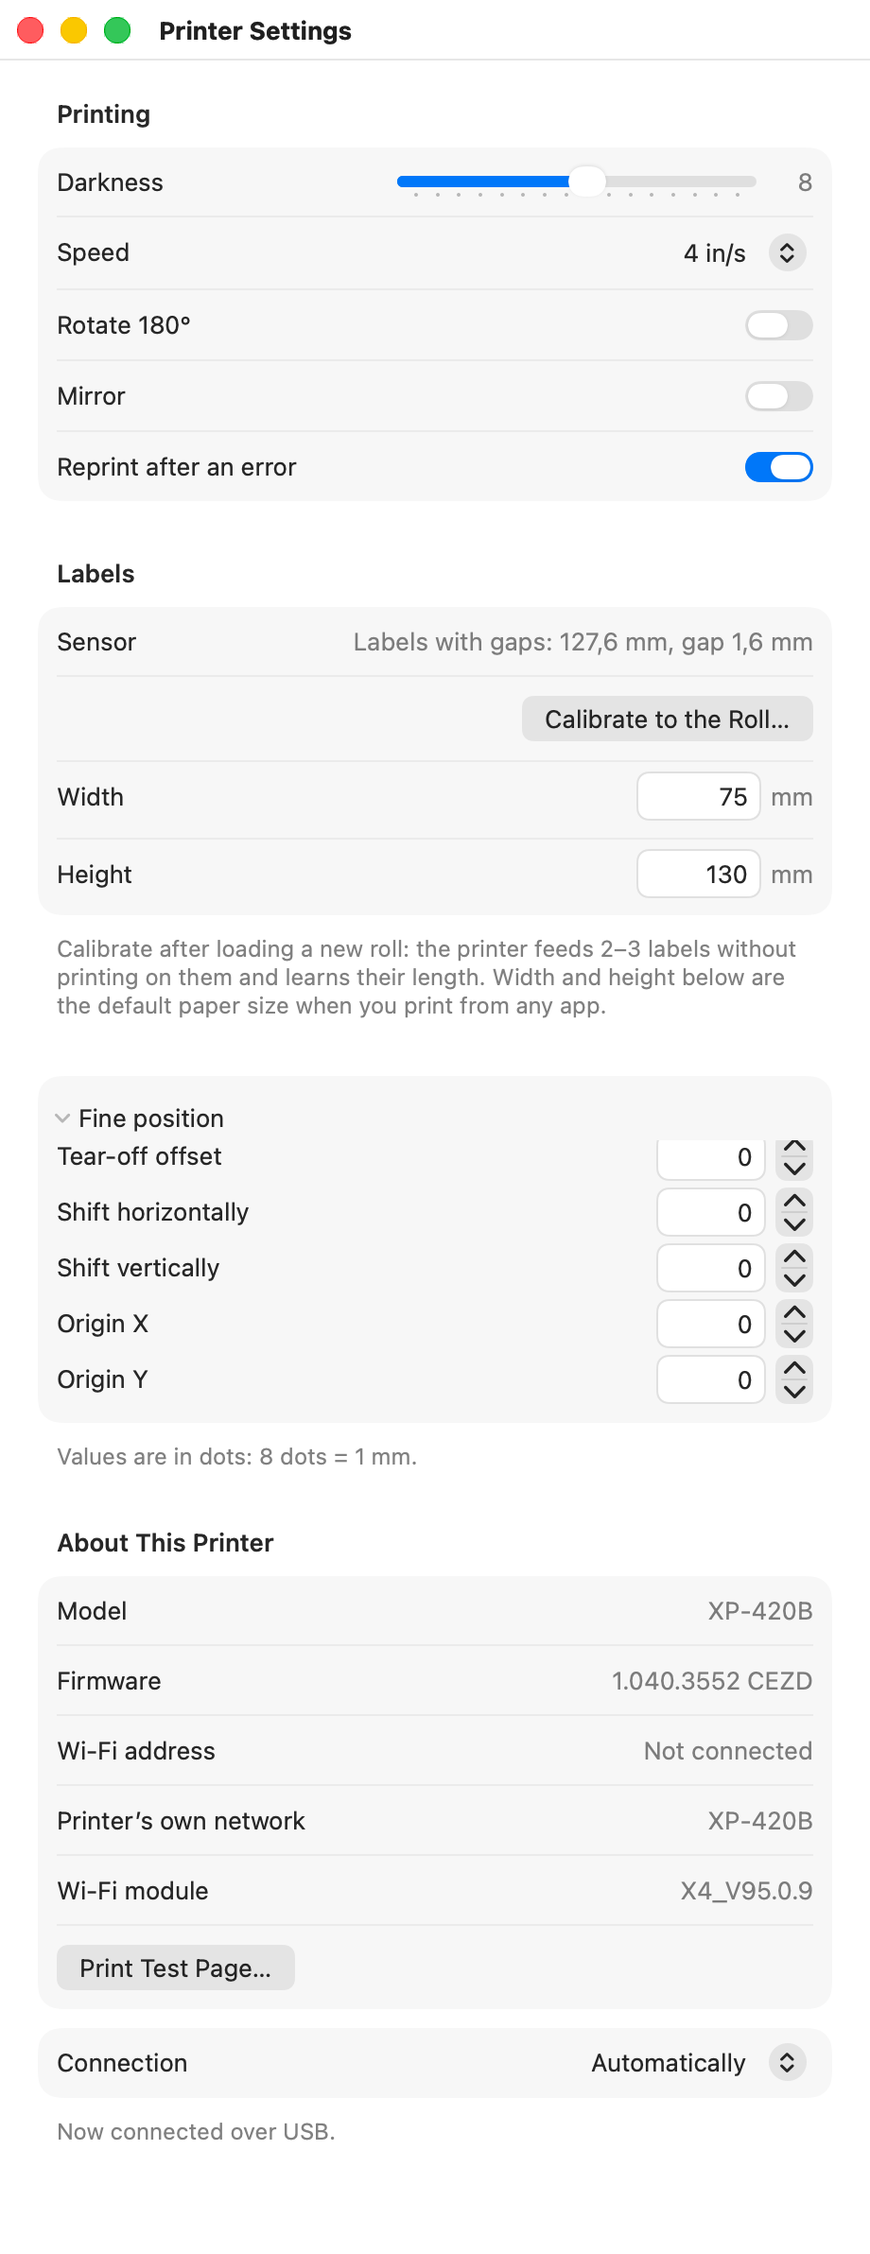
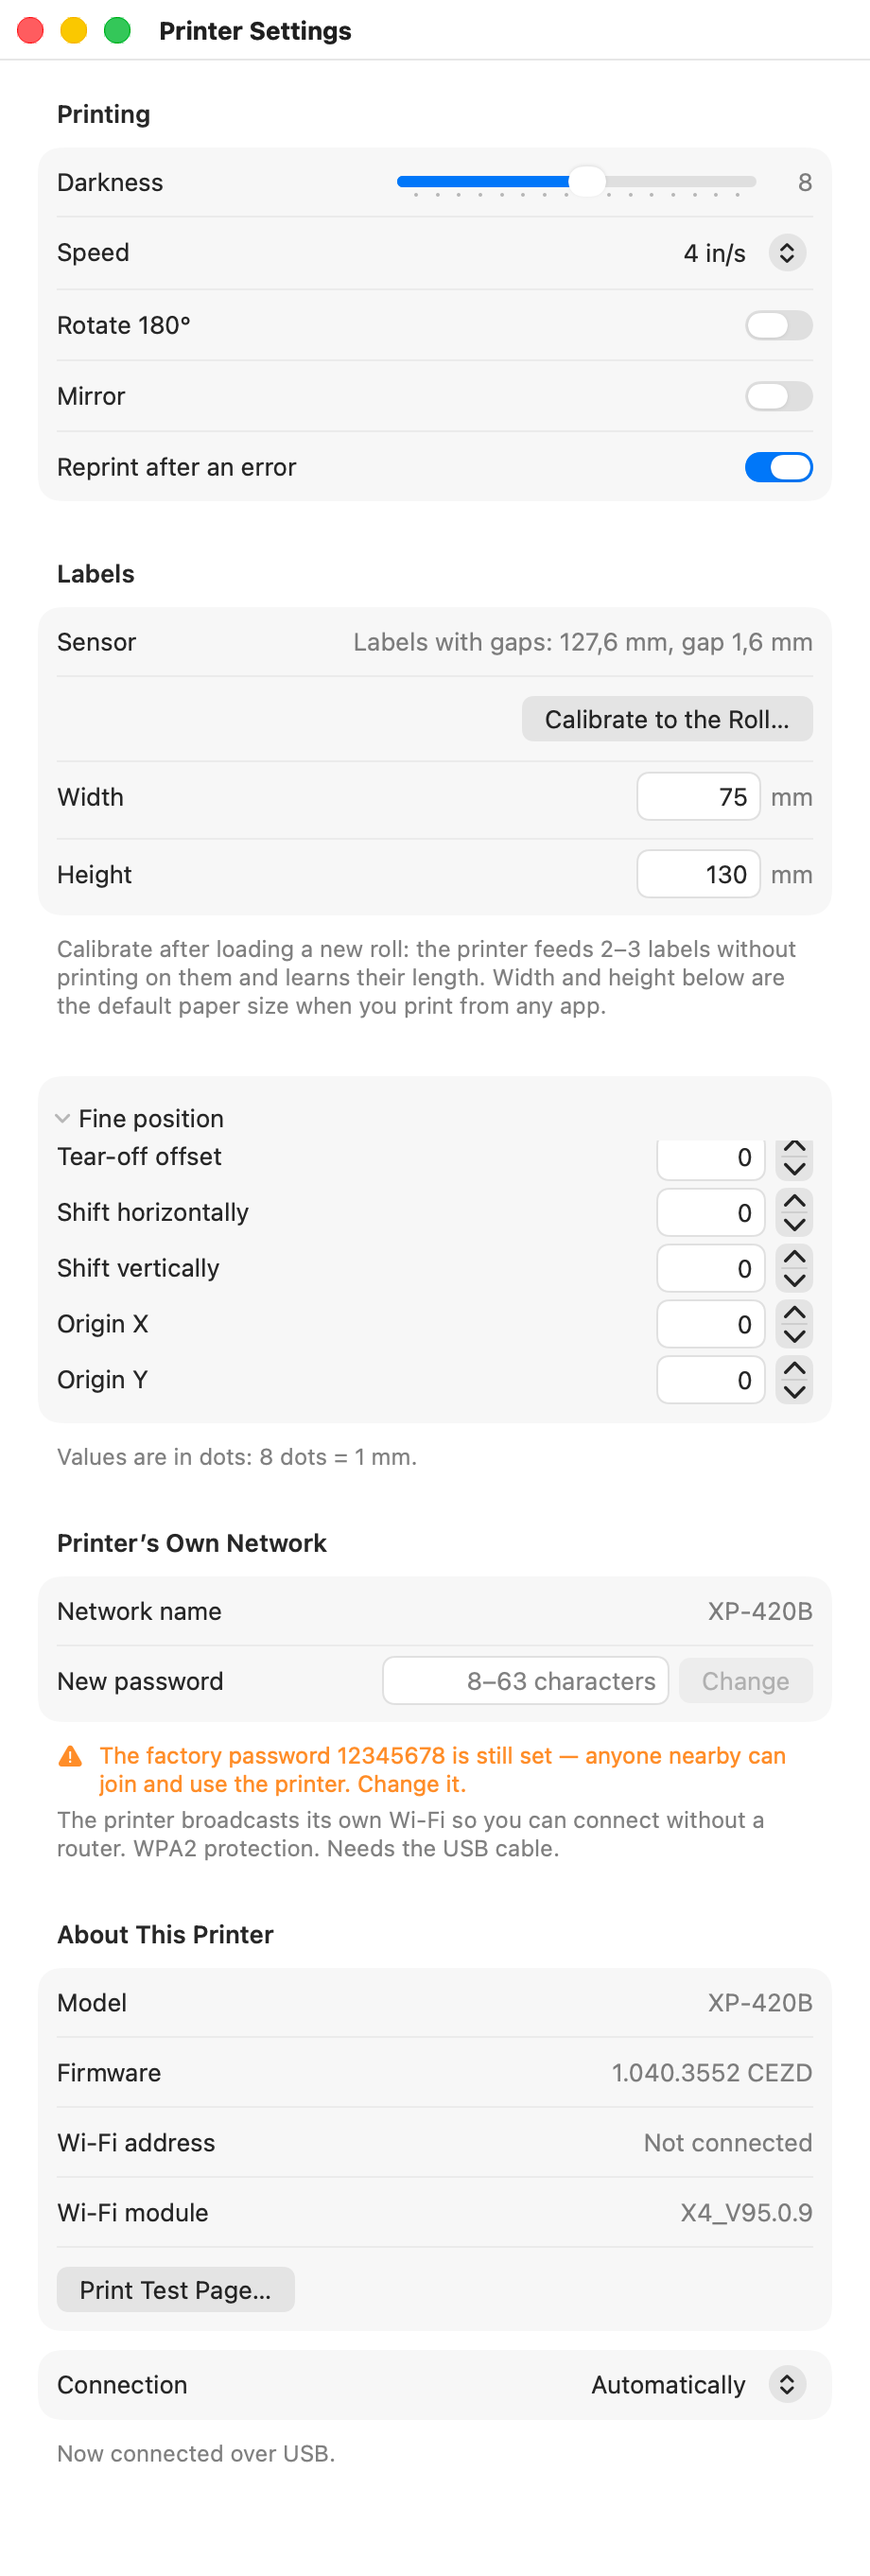
Password of the printer's own network (WPA2, USB), with a factory-password warning

diff --git a/Sources/XprinterSetup/SettingsView.swift b/Sources/XprinterSetup/SettingsView.swift
@@ -7,6 +7,9 @@ struct SettingsView: View {
     @State private var density = 8.0
     @State private var confirmTestPage = false
     @State private var confirmCalibration = false
+    @State private var newAPPassword = ""
+    @State private var changingAP = false
+    @State private var apChanged = false
     @State private var showPosition = Demo.isOn
 
     var body: some View {
@@ -77,12 +80,40 @@ struct SettingsView: View {
                     Text("Values are in dots: 8 dots = 1 mm.", bundle: .module).font(.callout).foregroundStyle(.secondary)
                 }
 
+                if c.hasWiFi, let name = c.accessPointName {
+                    Section {
+                        info("Network name", name)
+                        LabeledContent {
+                            HStack(spacing: 6) {
+                                SecureField(text: $newAPPassword, prompt: Text("8–63 characters", bundle: .module)) { EmptyView() }
+                                    .labelsHidden().textFieldStyle(.roundedBorder).frame(width: 150)
+                                if changingAP { ProgressView().controlSize(.small) }
+                                Button { changeAPPassword() } label: { Text("Change", bundle: .module) }
+                                    .disabled(!printer.usbPlugged || changingAP || !XprinterCommand.isValidAccessPointPassword(newAPPassword))
+                            }
+                        } label: { Text("New password", bundle: .module) }
+                    } header: { Text("Printer’s Own Network", bundle: .module) }
+                      footer: {
+                        VStack(alignment: .leading, spacing: 4) {
+                            if c.accessPointPassword == XprinterCommand.defaultAccessPointPassword {
+                                Label { Text("The factory password 12345678 is still set — anyone nearby can join and use the printer. Change it.", bundle: .module) }
+                                    icon: { Image(systemName: "exclamationmark.triangle.fill") }
+                                    .foregroundStyle(.orange)
+                            } else if apChanged {
+                                Label { Text("Password changed.", bundle: .module) } icon: { Image(systemName: "checkmark.circle.fill") }
+                                    .foregroundStyle(.green)
+                            }
+                            Text("The printer broadcasts its own Wi-Fi so you can connect without a router. WPA2 protection. Needs the USB cable.", bundle: .module)
+                        }
+                        .font(.callout).foregroundStyle(.secondary)
+                    }
+                }
+
                 Section {
                     info("Model", c.model)
                     info("Firmware", c.firmware)
                     if c.hasWiFi {
                         info("Wi-Fi address", c.wifiIP ?? loc("Not connected"))
-                        info("Printer’s own network", c.accessPointName)
                         info("Wi-Fi module", c.wifiModule)
                     }
                     Button { confirmTestPage = true } label: { Text("Print Test Page…", bundle: .module) }
@@ -128,6 +159,15 @@ struct SettingsView: View {
             }
             .padding(40)
             .frame(maxWidth: .infinity, maxHeight: .infinity)
+        }
+    }
+
+    private func changeAPPassword() {
+        changingAP = true; apChanged = false
+        Task {
+            apChanged = await printer.setAccessPointPassword(newAPPassword)
+            if apChanged { newAPPassword = "" }
+            changingAP = false
         }
     }
 

diff --git a/Sources/XprinterSetup/PrinterModel.swift b/Sources/XprinterSetup/PrinterModel.swift
@@ -305,6 +305,22 @@ final class PrinterModel: ObservableObject {
         }
     }
 
+    /// New password for the printer's own network (USB only). Returns true when the printer stored it.
+    func setAccessPointPassword(_ password: String) async -> Bool {
+        guard !Demo.isOn, usbPlugged, let name = config?.accessPointName,
+              XprinterCommand.isValidAccessPointPassword(password) else { return false }
+        settingsError = nil
+        do {
+            try await Self.background { try Xprinter.send(XprinterCommand.setAccessPoint(name: name, password: password), via: .usb) }
+        } catch {
+            settingsError = error.localizedDescription
+            return false
+        }
+        try? await Task.sleep(nanoseconds: 10_000_000_000)  // the Wi-Fi module restarts
+        await reload()
+        return config?.accessPointPassword == password
+    }
+
     /// Soft restart over USB ("Reset Printer"). Settings are kept; Wi-Fi comes back about 10 s later.
     func restartPrinter() { restart(XprinterCommand.restartPrinter, wait: 15) }
     /// Restarts only the Wi-Fi module over USB.

diff --git a/Tests/XprinterKitTests/XprinterKitTests.swift b/Tests/XprinterKitTests/XprinterKitTests.swift
@@ -20,6 +20,16 @@ final class XprinterKitTests: XCTestCase {
         XCTAssertFalse(Array(XprinterCommand.restartPrinter).suffix(3) == [27, 33, 67])
     }
 
+    func testAccessPoint() {
+        XCTAssertEqual(String(decoding: XprinterCommand.setAccessPoint(name: "XP-420B", password: "secret123"), as: UTF8.self),
+                       "WIFI SETAP \"XP-420B\",3,\"secret123\"\r\nWIFI RESET\r\n")  // 3 = WPA2, checked on the printer
+        XCTAssertTrue(XprinterCommand.isValidAccessPointPassword("12345678"))
+        XCTAssertFalse(XprinterCommand.isValidAccessPointPassword("short"))
+        XCTAssertFalse(XprinterCommand.isValidAccessPointPassword("with\"quote1"))
+        XCTAssertFalse(XprinterCommand.isValidAccessPointPassword("пароль-кириллицей"))
+        XCTAssertEqual(PrinterConfig(report: "Wifi Pin: 12345678").accessPointPassword, "12345678")
+    }
+
     func testValidation() {
         XCTAssertThrowsError(try XprinterCommand.validate(ssid: "", password: "12345678"))
         XCTAssertThrowsError(try XprinterCommand.validate(ssid: "a\"b", password: "12345678"))

diff --git a/Sources/XprinterKit/Commands.swift b/Sources/XprinterKit/Commands.swift
@@ -41,6 +41,20 @@ public enum XprinterCommand {
     public static func shift(x: Int, y: Int) -> Data { cmd("SHIFT \(x),\(y)") }
     public static func reference(x: Int, y: Int) -> Data { cmd("REFERENCE \(x),\(y)") }
 
+    /// Factory password of the printer's own network.
+    public static let defaultAccessPointPassword = "12345678"
+
+    /// Sets the password of the printer's own network (it keeps its name) and restarts the Wi-Fi module.
+    /// Security 3 = WPA2: checked on an XP-420B by scanning the network (2 gives old WPA). 0 and 1 are never used.
+    public static func setAccessPoint(name: String, password: String) -> Data {
+        cmd("WIFI SETAP \"\(name)\",3,\"\(password)\"\r\nWIFI RESET")
+    }
+
+    /// WPA2 password rules plus TSPL's "no double quote".
+    public static func isValidAccessPointPassword(_ p: String) -> Bool {
+        (8...63).contains(p.count) && p.allSatisfy { $0.isASCII && !$0.isNewline && $0 != "\"" }
+    }
+
     public enum ValidationError: Error, Equatable {
         case emptySSID, quoteInSSID, quoteInPassword, shortPassword
     }

diff --git a/Sources/XprinterKit/PrinterConfig.swift b/Sources/XprinterKit/PrinterConfig.swift
@@ -50,6 +50,7 @@ public struct PrinterConfig: Equatable {
     public var wifiIP: String? { values["Wifi Sta Ip"].flatMap { $0 == "0.0.0.0" || $0.isEmpty ? nil : $0 } }
     public var wifiModule: String? { values["Wifi Versions"] }
     public var accessPointName: String? { values["Wifi Name"] }
+    public var accessPointPassword: String? { values["Wifi Pin"] }
 
     public enum Sensor: Equatable { case gap, blackMark, continuous }
     /// "GAP", "BLINE…" or "CONTINUOUS(T)".

diff --git a/Sources/XprinterSetup/App.swift b/Sources/XprinterSetup/App.swift
@@ -28,7 +28,7 @@ struct XprinterSetupApp: App {
             SettingsView()
                 .environmentObject(printer)
                 .frame(width: 460)
-                .frame(minHeight: Demo.isOn ? 1160 : 420)
+                .frame(minHeight: Demo.isOn ? 1330 : 420)
         }
         .windowResizability(.contentSize)
     }

diff --git a/Sources/XprinterSetup/Demo.swift b/Sources/XprinterSetup/Demo.swift
@@ -16,6 +16,7 @@ enum Demo {
         XP-420B Version: 1.040.3552 CEZD
         Wifi : YES
         Wifi Name: XP-420B
+        Wifi Pin: 12345678
         Wifi Sta Ip: \(ip)
         Wifi Versions: X4_V95.0.9
         Density: 8.0
